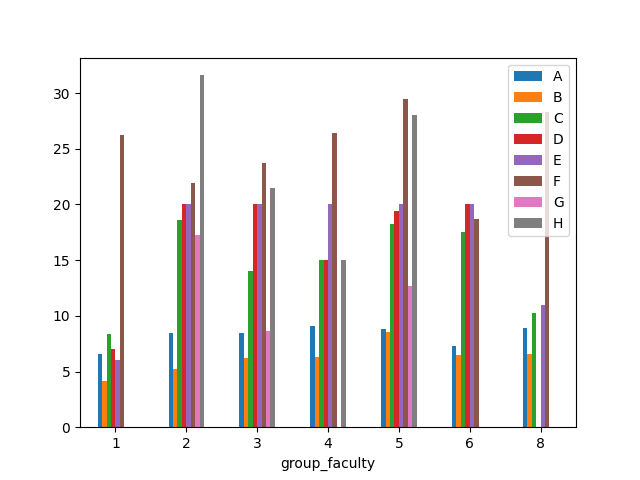
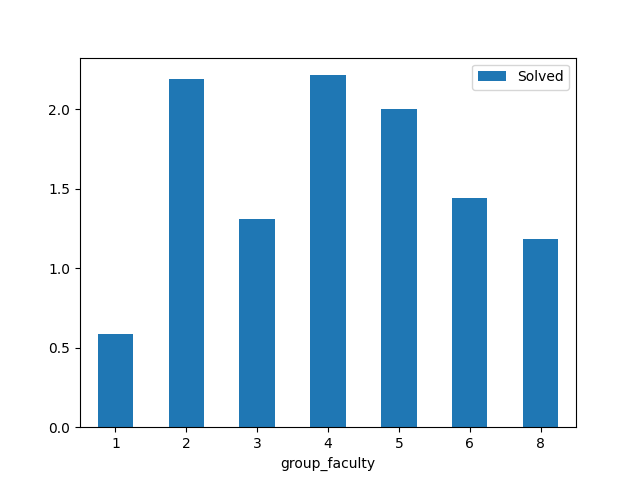
Issues 4 completed

diff --git a/Lab_Pandas/Episode3/main.py b/Lab_Pandas/Episode3/main.py
@@ -4,8 +4,8 @@ import matplotlib.pyplot as plt
 data = pd.read_html('results_ejudge.html')
 data1 = pd.read_excel('students_info.xlsx')
 AllData = data[0].merge(data1, left_on='User', right_on='login')
-A = AllData.groupby('group_faculty')[['A', 'B', 'C', 'D', 'E', 'F', 'G', 'H']].mean()
-B = AllData.groupby('group_out')[['A', 'B', 'C', 'D', 'E', 'F', 'G', 'H']].mean()
+A = AllData.groupby('group_faculty')[['Solved']].mean()
+B = AllData.groupby('group_out')[['Solved']].mean()
 
 A.plot(kind='bar')
 plt.xticks(rotation=0)
